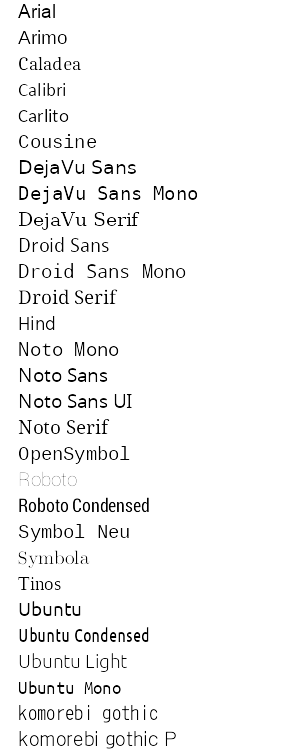
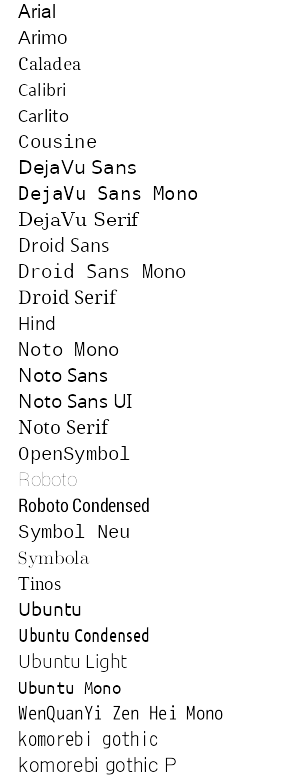
Update fonts

diff --git a/common/AllFonts.js b/common/AllFonts.js
@@ -80,6 +80,7 @@
 "NotoSansUI-Bold.ttf",
 "DejaVuSerif-Bold.ttf",
 "Carlito-Bold.ttf",
+"WenQuan.ttf",
 "RobotoCondensed-Regular.ttf",
 "NotoSans-Regular.ttf",
 "Roboto-ThinItalic.ttf",
@@ -90,7 +91,7 @@
 window["__fonts_infos"] = [
 ["Arial",9,0,39,0,42,0,76,0],
 ["Arimo",49,0,35,0,27,0,17,0],
-["Caladea",44,0,25,0,84,0,10,0],
+["Caladea",44,0,25,0,85,0,10,0],
 ["Calibri",4,0,22,0,75,0,59,0],
 ["Carlito",46,0,62,0,80,0,12,0],
 ["Cousine",67,0,43,0,16,0,31,0],
@@ -102,12 +103,12 @@ window["__fonts_infos"] = [
 ["Droid Serif",21,0,61,0,48,0,36,0],
 ["Hind",56,0,-1,-1,41,0,-1,-1],
 ["Noto Mono",18,0,-1,-1,-1,-1,-1,-1],
-["Noto Sans",82,0,77,0,70,0,23,0],
+["Noto Sans",83,0,77,0,70,0,23,0],
 ["Noto Sans UI",72,0,37,0,78,0,63,0],
 ["Noto Serif",33,0,52,0,54,0,26,0],
 ["OpenSymbol",30,0,-1,-1,-1,-1,-1,-1],
-["Roboto",85,0,83,0,64,0,20,0],
-["Roboto Condensed",81,0,32,0,57,0,0,0],
+["Roboto",86,0,84,0,64,0,20,0],
+["Roboto Condensed",82,0,32,0,57,0,0,0],
 ["Symbol Neu",8,0,-1,-1,-1,-1,-1,-1],
 ["Symbola",66,0,-1,-1,-1,-1,-1,-1],
 ["Tinos",55,0,65,0,51,0,34,0],
@@ -115,8 +116,9 @@ window["__fonts_infos"] = [
 ["Ubuntu Condensed",7,0,-1,-1,-1,-1,-1,-1],
 ["Ubuntu Light",2,0,6,0,50,0,53,0],
 ["Ubuntu Mono",71,0,1,0,3,0,24,0],
+["WenQuanYi Zen Hei Mono",81,0,-1,-1,-1,-1,-1,-1],
 ["komorebi gothic",68,0,-1,-1,-1,-1,-1,-1],
 ["komorebi gothic P",40,0,-1,-1,-1,-1,-1,-1]
 ];
 
[2 lines of base64/hex data omitted]
